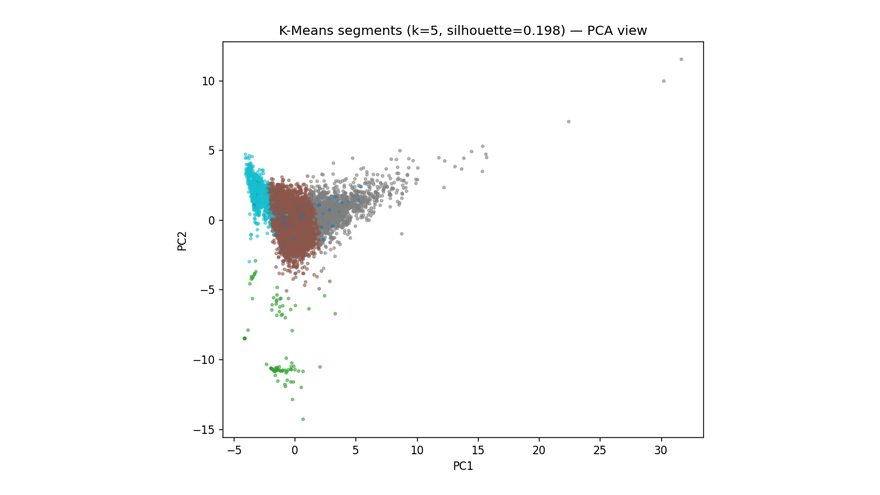
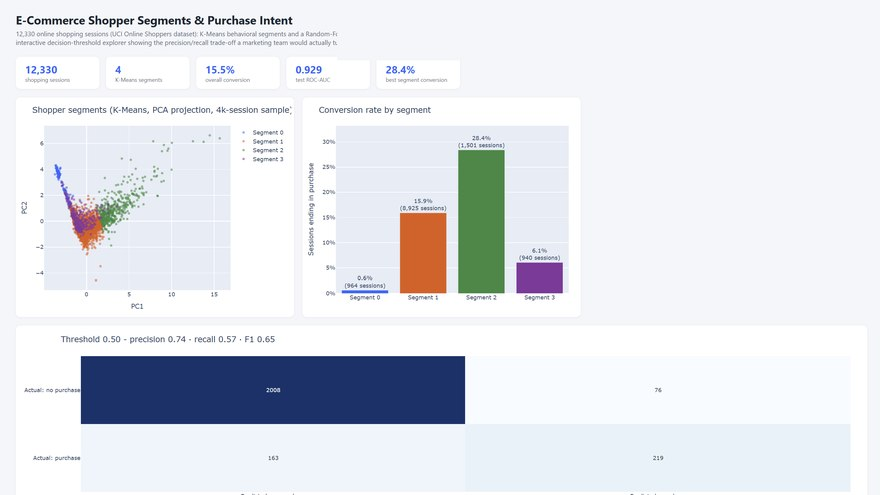
content: real dashboard screenshots for climate, HDI and e-commerce
Replaces the generated climate cover and the two matplotlib figures with
screenshots of the deployed dashboards. Removed the 'press and hold Esc'
screen-recording banner from the HDI and e-commerce captures by detecting
the solid overlay and repainting the page background. Full-resolution
versions served in the lightbox.

diff --git a/index.html b/index.html
@@ -1055,21 +1055,21 @@ const PROJECTS=[
   repo:'https://github.com/Nikkat-Afrin/healthcare-provider-network-tableau',
   demo:'https://public.tableau.com/app/profile/nikkat.afrin/viz/NYCInsuranceNetwork/modifieddashboard',live:true},
 
- {t:'E-Commerce Segmentation & Purchase Intent',img:'ecom.jpg',k:'ml',kind:'ML · Live',
+ {t:'E-Commerce Segmentation & Purchase Intent',img:'ecom.jpg',full:'ecom-full.jpg',k:'ml',kind:'ML · Live',
   d:'K-Means behavioural segmentation plus a purchase-intent model over 12,330 shopping sessions, with a threshold explorer showing the trade-off a marketing team actually tunes.',
   m:'AUC 0.929 · best segment converts 28.4% vs 15.5%',
   tags:['scikit-learn','K-Means','Random Forest','Plotly'],
   repo:'https://github.com/Nikkat-Afrin/customer-churn-segmentation-ecommerce',
   demo:'https://nikkat-afrin.github.io/customer-churn-segmentation-ecommerce/',live:true},
 
- {t:'Global Human Development Dashboard',img:'hdi.jpg',k:'viz',kind:'Data Viz · Live',
+ {t:'Global Human Development Dashboard',img:'hdi.jpg',full:'hdi-full.jpg',k:'viz',kind:'Data Viz · Live',
   d:'Interactive choropleth and scatter over UNDP HDR 2021–22 covering 191 countries, plus a regression decomposing which pillars actually drive the composite index.',
   m:'191 countries · R² ≈ 0.98',
   tags:['Plotly','pandas','statsmodels','Choropleth'],
   repo:'https://github.com/Nikkat-Afrin/hdi-global-policy-analysis',
   demo:'https://nikkat-afrin.github.io/hdi-global-policy-analysis/',live:true},
 
- {t:'Climate Indicators ETL & Dashboard',img:'climate.svg',k:'de',kind:'Data Engineering · Live',
+ {t:'Climate Indicators ETL & Dashboard',img:'climate.jpg',full:'climate-full.jpg',k:'de',kind:'Data Engineering · Live',
   d:'Reproducible ETL merging three independent climate sources with different cadences, units and missingness conventions into one analysis-ready 66-year series, with explicit data-quality gates.',
   m:'CO₂ 421 ppm · +1.77 °C · +77 mm sea level',
   tags:['pandas','GeoPandas','ETL','Plotly'],
